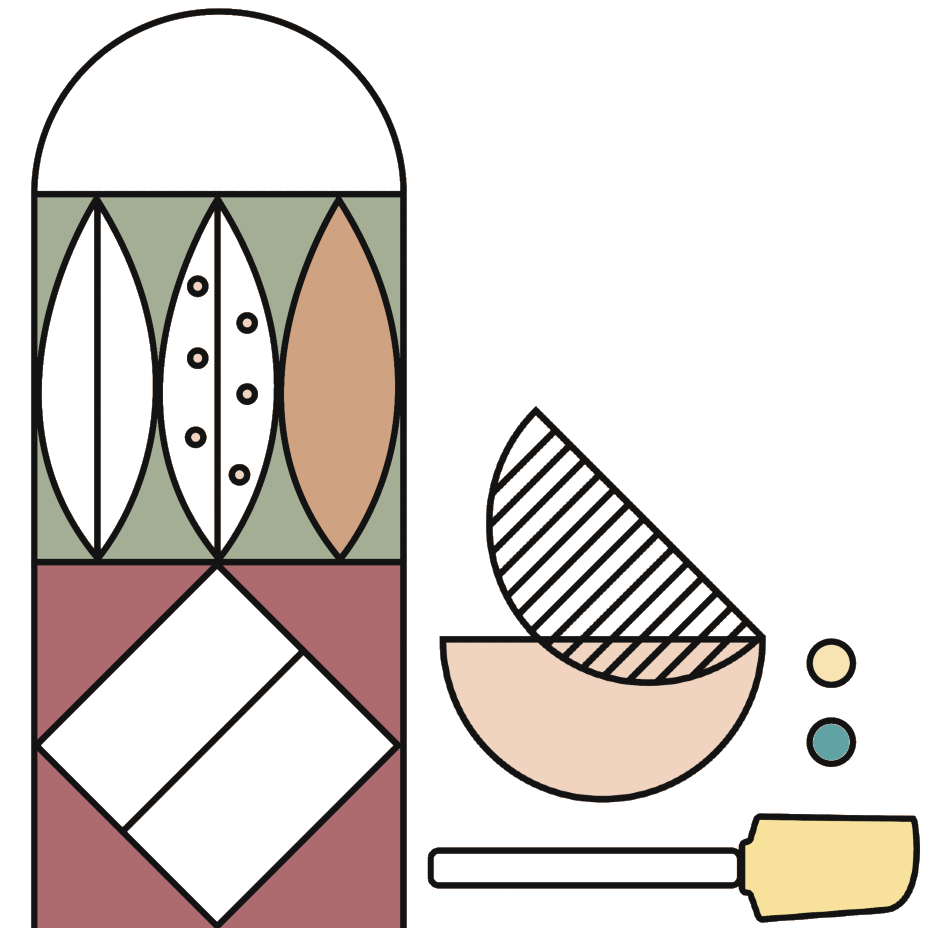
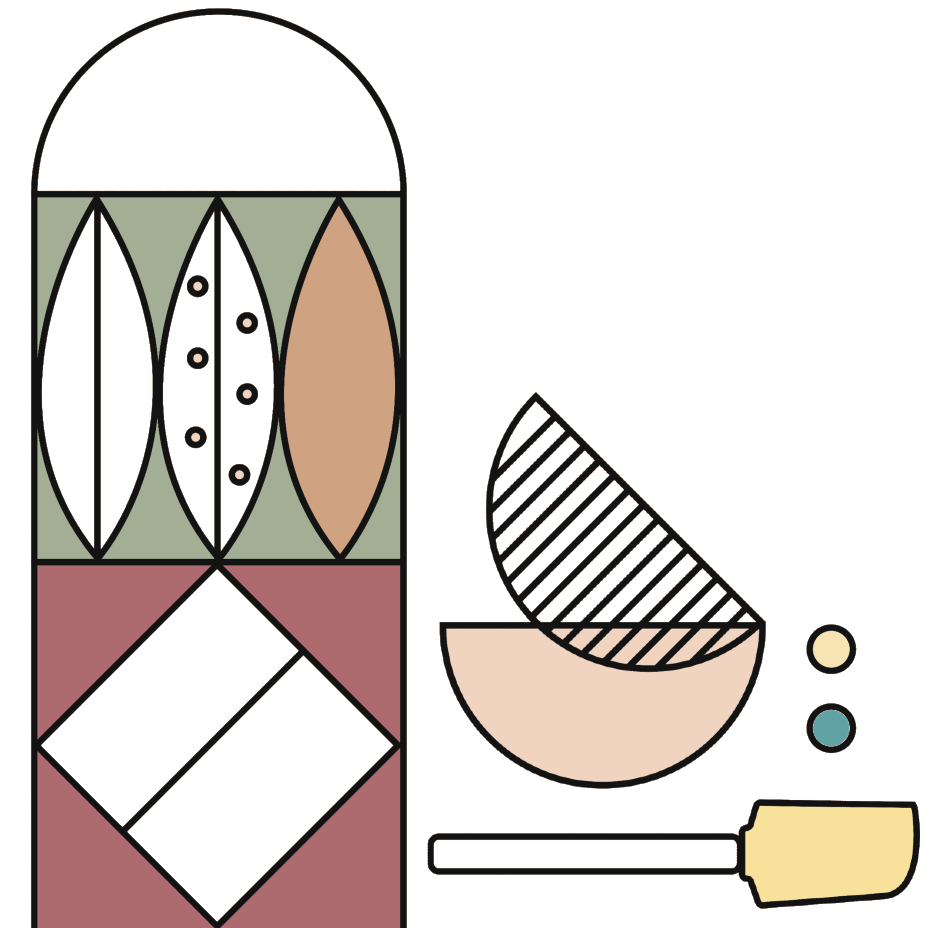
Footer mobile with backgrounds

Changed region(s): [[0.4333, 0.4062, 0.9904, 1.0]]

diff --git a/frontend/src/components/Footer.jsx b/frontend/src/components/Footer.jsx
@@ -1,61 +1,64 @@
 import "./Footer.css";
+import Button from "./ui/Button";
 
 const Footer = () => {
     return (
         <footer className="footer">
-            <section className="section-standard footer-inner">
+            <section className="footer-inner">
 
-                {/* Brand */}
-                <div className="footer-brand">
-                    <h3>Maison Lilja</h3>
-                    <br />
-                    <a href="/about">Om oss</a><br />
-                    <a href="/contact">Kontakt</a>
-                </div>
+                <div className="footer-grid">
 
-
-                {/* Info / Policies */}
-                <div className="footer-info">
-                    <h3>Information</h3>
-                    <br />
-                    <a href="/faq">Vanliga frågor</a><br />
-                    <a href="/integritetspolicy">Integritetspolicy</a><br />
-                    <a href="/kopvillkor">Köpvillkor</a><br />
-                    <a href="/returer">Returer & reklamation</a>
-                </div>
-
-                {/* Social */}
-                <div className="footer-social">
-                    <h3>Följ oss</h3>
-                    <br />
-                    <a
-                        href="https://instagram.com/maisonlilja"
-                        target="_blank"
-                        rel="noopener noreferrer"
-                        className="instagram-icon"
-                    >
-                        <svg
-                            width="28"
-                            height="28"
-                            viewBox="0 0 24 24"
-                            fill="none"
-                            stroke="white"
-                            strokeWidth="2"
-                            strokeLinecap="round"
-                            strokeLinejoin="round"
+                    {/* Brand */}
+                    <div className="footer-brand">
+                        <h3><img src="../../logo_symbol.png" alt="Logo" /></h3>
+                        <a href="/about">Om oss</a><br />
+                        <a href="/contact">Kontakt</a><br />
+                        <a
+                            href="https://instagram.com/maisonlilja"
+                            target="_blank"
+                            rel="noopener noreferrer"
+                            className="social-link"
+                            aria-label="Följ oss på Instagram"
                         >
-                            <rect x="2" y="2" width="20" height="20" rx="5" ry="5"></rect>
-                            <path d="M16 11.37A4 4 0 1 1 12.63 8"></path>
-                            <line x1="17.5" y1="6.5" x2="17.51" y2="6.5"></line>
-                        </svg>
-                    </a>
+                            <span>Följ oss</span>
+                            <svg
+                                viewBox="0 0 24 24"
+                                width="20"
+                                height="20"
+                                fill="none"
+                                stroke="currentColor"
+                                strokeWidth="2"
+                                strokeLinecap="round"
+                                strokeLinejoin="round"
+                                aria-hidden="true"
+                            >
+                                <rect x="2" y="2" width="20" height="20" rx="5" ry="5" />
+                                <path d="M16 11.37A4 4 0 1 1 12.63 8 4 4 0 0 1 16 11.37z" />
+                                <line x1="17.5" y1="6.5" x2="17.5" y2="6.5" />
+                            </svg>
+                        </a>
+                    </div>
+
+
+                    {/* Info / Policies */}
+                    <div className="footer-info">
+                        <h3>Information</h3>
+                        <a href="/faq">Vanliga frågor</a><br />
+                        <a href="/integritetspolicy">Integritetspolicy</a><br />
+                        <a href="/kopvillkor">Köpvillkor</a><br />
+                        <a href="/returer">Returer & reklamation</a>
+                    </div>
+
+
+                </div>
+
+                <div className="footer-bottom">
+                    © {new Date().getFullYear()} Maison Lilja — Alla rättigheter förbehållna.
                 </div>
 
             </section>
 
-            <div className="footer-bottom">
-                © {new Date().getFullYear()} Maison Lilja — Alla rättigheter förbehållna.
-            </div>
+            
         </footer>
     );
 }

diff --git a/frontend/src/components/Footer.css b/frontend/src/components/Footer.css
@@ -1,44 +1,50 @@
 .footer {
+    background-color: var(--color-bg-secondary);
+    padding-top: var(--spacing-sm);
     color: var(--color-text);
     font-family: var(--font-sans);
-
-    background-image:
-        url("../main_bg_right.png"),
-        url("../main_bg_left.png");
-
-    background-position:
-        bottom right,
-        bottom left;
-
-    background-size:
-        contain,
-        contain;
-
-    background-repeat:
-        no-repeat,
-        no-repeat;
-
     margin-top: var(--spacing-lg);
 }
 
 .footer-inner {
-    max-width: 600px;
-    margin: auto;
-    display: flex;
-    justify-content: space-around;
-    gap: var(--spacing-xl);
-    padding: var(--spacing-lg) var(--spacing-lg) var(--spacing-xl);
+    padding: var(--spacing-md) var(--spacing-md) 0;
+    background-image:
+        url("../main_bg_right.png"),
+        url("../main_bg_left.png");
+    background-position:
+        bottom right,
+        bottom left;
+    background-size:
+        contain,
+        contain;
+    background-repeat:
+        no-repeat,
+        no-repeat;
 }
 
-.footer-info, .footer-brand {
+.footer-grid {
+    max-width: 500px;
+    margin: auto;
+    display: grid;
+    grid-template-columns: 1fr 1fr;
+    gap: var(--spacing-lg);
+    padding: var(--spacing-lg);
+}
+
+.footer-info,
+.footer-brand {
     display: block;
 }
 
+.footer-brand img {
+    height: 1.1rem;
+}
+
 footer h3 {
-    display: inline-block;
     font-size: 1.1rem;
+    line-height: 1.3rem;
     margin-bottom: var(--spacing-md);
-    border-bottom: 1px solid var(--color-bg-secondary);
+    border-bottom: 1px solid var(--color-text);
     padding-bottom: 8px;
 
 }
@@ -57,13 +63,21 @@ footer h3 {
     opacity: 0.7;
 }
 
-.instagram-icon {
-    display: block;
-    transition: opacity 0.3s ease;
+.social-link {
+    color: var(--color-text-light);
+    transition: color 0.2s ease;
 }
 
-.instagram-icon:hover {
-    opacity: 0.7;
+.social-link svg {
+    vertical-align: middle;
+    margin-bottom: 6px;
+    margin-left: 4px;
+}
+
+@media (hover: hover) and (pointer: fine) {
+    .social-link:hover {
+        color: var(--color-text);
+    }
 }
 
 .footer-bottom {
@@ -75,26 +89,39 @@ footer h3 {
 }
 
 /* Mobile */
-@media screen and (max-width: 600px) {
+@media screen and (max-width: 1024px) {
 
     .footer {
         background-image: none;
+        padding: 0;
     }
-            
+
     .footer-inner {
+        position: relative;
         flex-direction: column;
         gap: 20px;
         text-align: left;
-        padding-bottom: var(--spacing-sm);
-        background-image: url("../main_bg_right.png");
-        background-position: bottom right;
-        background-size: 50%;
-        background-repeat: no-repeat;
+        padding: 0;
+        margin-bottom: 35px;
+        background-size:
+            auto 220px,
+            auto 220px;
     }
 
-    .footer-bottom {
-        background-color: var(--accent-dark-brown);
-        color: var(--color-bg-secondary);
-        border: 0;
+    .footer-grid {
+        padding: var(--spacing-lg) var(--spacing-lg) 0;
+        padding-bottom: 220px;
     }
-}
+    .footer-bottom{
+        width: 100%;
+        position: absolute;
+        background-color: var(--color-text);
+        color:var(--color-bg);
+        height: 35px;
+        line-height: 35px;
+        padding: 0;
+        font-weight: normal;
+        bottom: -35px;
+    }
+
+ }

diff --git a/frontend/src/components/ui/Divider.css b/frontend/src/components/ui/Divider.css
@@ -1,0 +1,21 @@
+.divider {
+    display: flex;
+    align-items: center;
+    gap: var(--spacing-md);
+    width: 50%;
+    margin: auto;
+}
+
+.divider-line {
+    flex: 1;
+    height: 2px;
+    background: var(--color-text);
+    border-radius: 2px;
+}
+
+.divider-image {
+    width: auto;
+    height: 30px;
+    object-fit: contain;
+    flex-shrink: 0;
+}

diff --git a/frontend/src/components/ui/Divider.jsx b/frontend/src/components/ui/Divider.jsx
@@ -1,0 +1,13 @@
+import "./Divider.css";
+
+export default function Divider() {
+    return (
+        <div className="divider">
+            <span className="divider-line" />
+
+            <img className="divider-image" src="../../../bean.png" />
+
+            <span className="divider-line" />
+        </div>
+    );
+}
